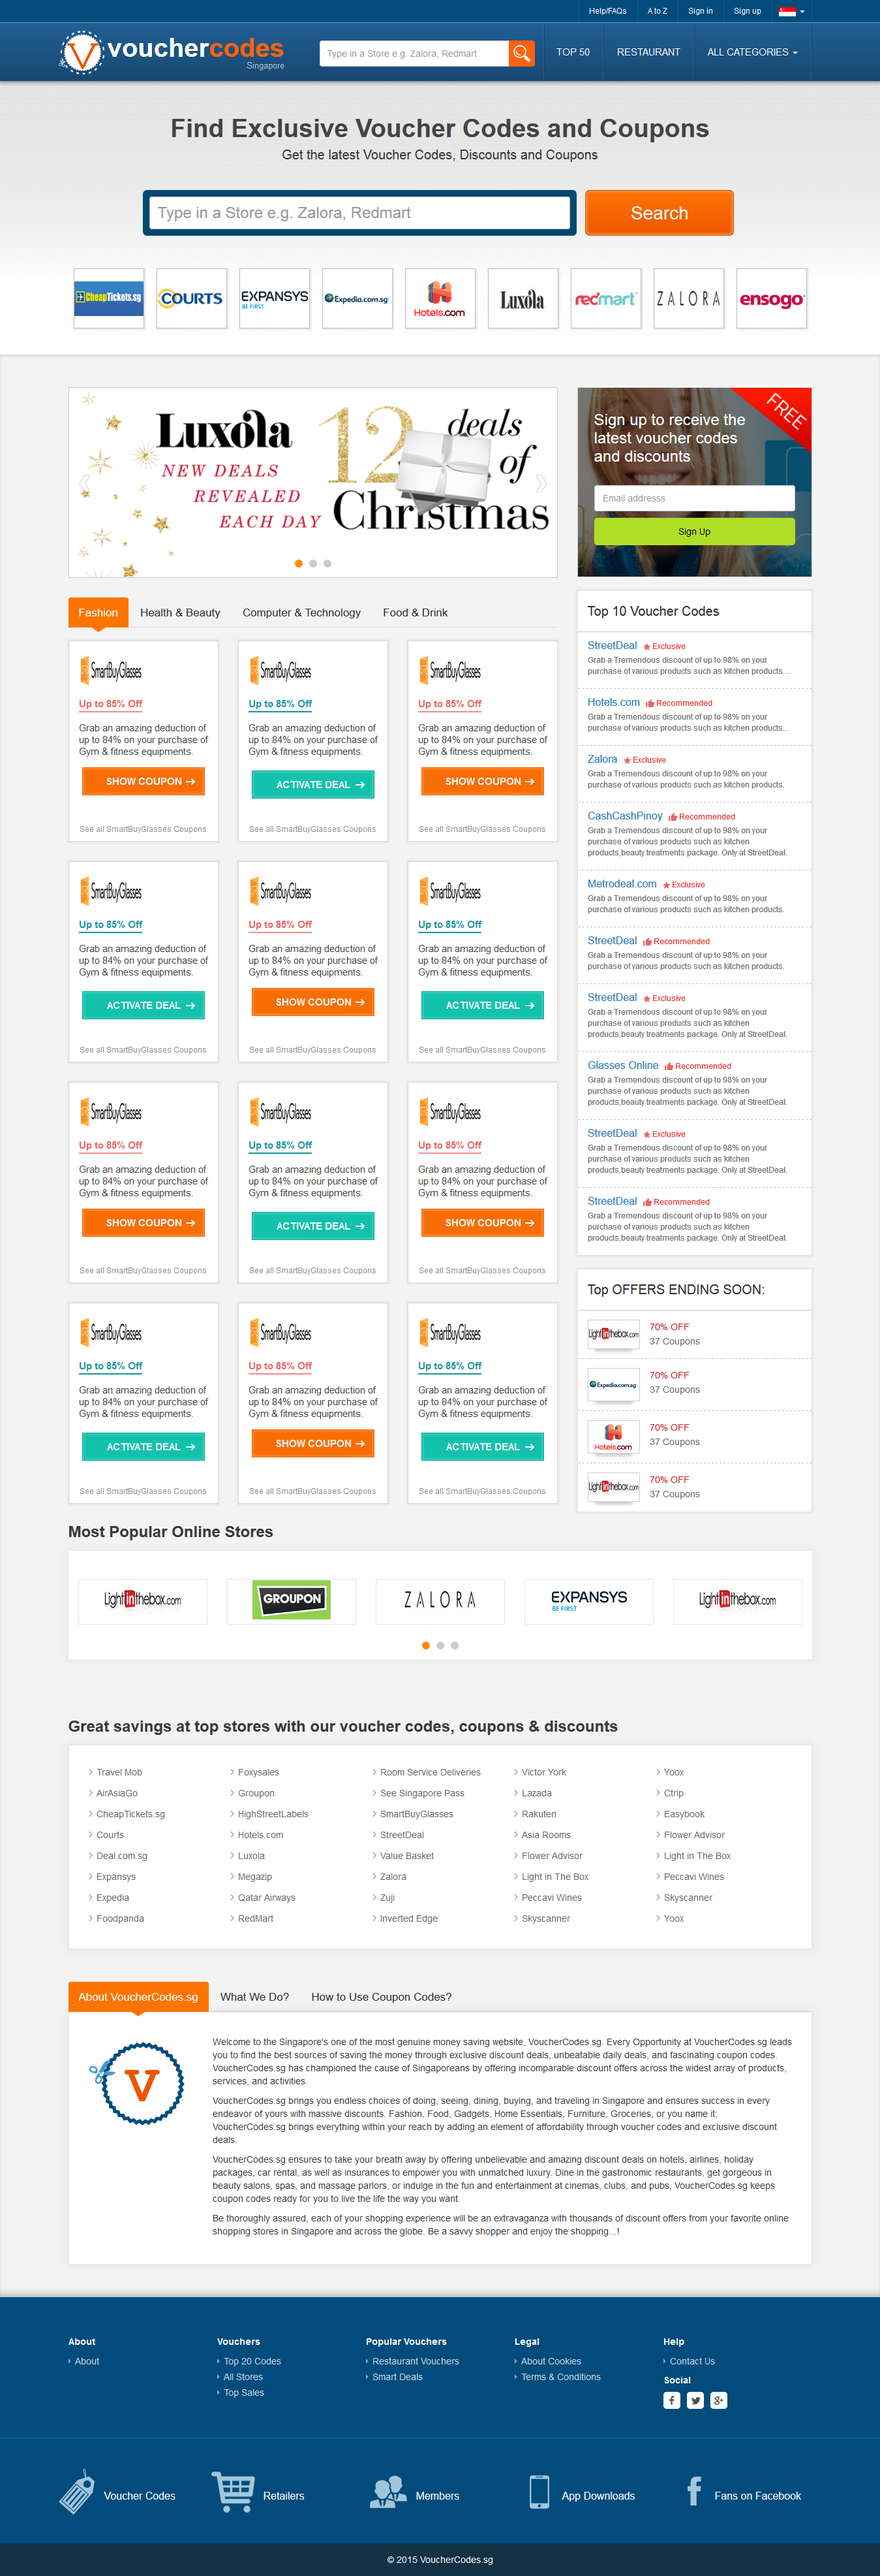
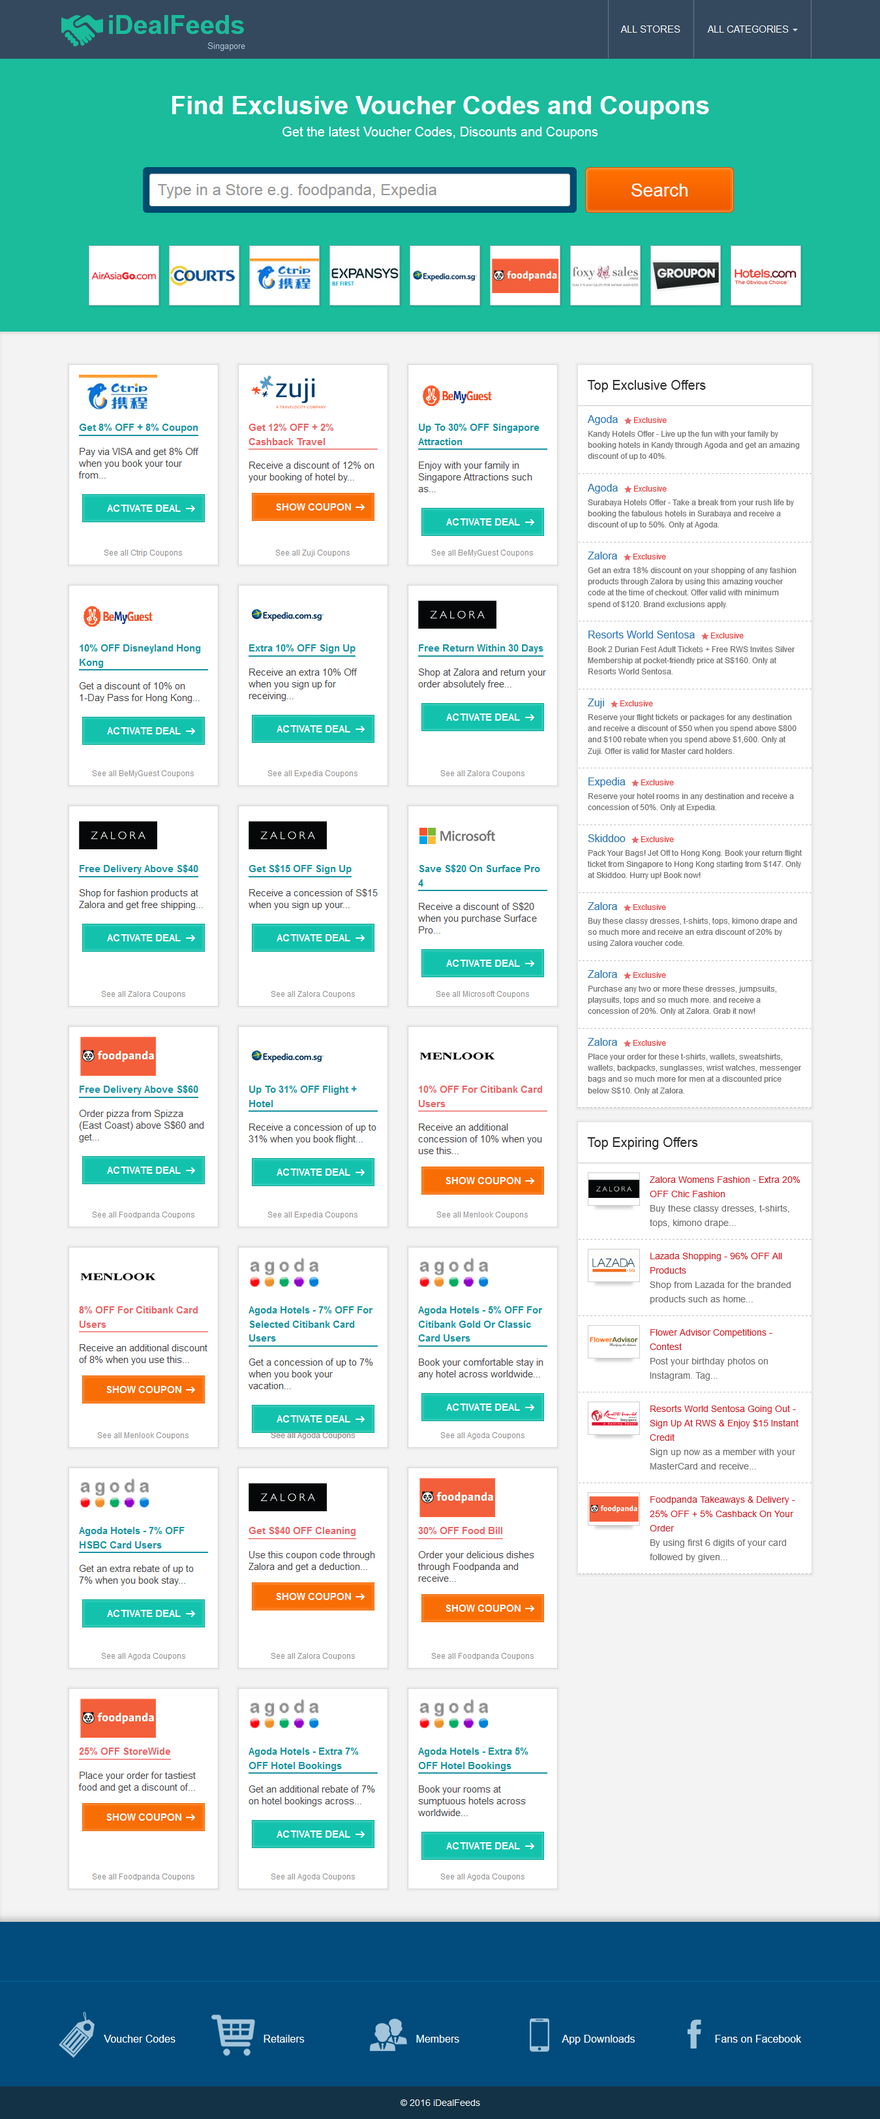
Final UI Changes

diff --git a/iDealFeeds_theme/style.css b/iDealFeeds_theme/style.css
@@ -3595,3 +3595,75 @@ h1.logo{font-size:30px}
 	max-height: 50px;
 	margin: auto;
 }
+
+.tags a {    
+    display: inline-block;
+    height: 24px;
+    line-height: 24px;
+    position: relative;
+    margin: 0 16px 8px 0;
+    padding: 0 10px 0 12px;
+    background:#34495E;    
+    -webkit-border-bottom-right-radius: 3px;    
+    border-bottom-right-radius: 3px;
+    -webkit-border-top-right-radius: 3px;    
+    border-top-right-radius: 3px;
+    -webkit-box-shadow: 0 1px 2px rgba(0,0,0,0.2);
+    box-shadow: 0 1px 2px rgba(0,0,0,0.2);
+    color: #fff;
+    font-size: 12px;
+    font-family: "Lucida Grande","Lucida Sans Unicode",Verdana,sans-serif;
+    text-decoration: none;
+    text-shadow: 0 1px 2px rgba(0,0,0,0.2);
+    font-weight: bold;
+    }
+
+
+   .tags a:before {
+    content: "";
+    position: absolute;
+    top:0;
+    left: -12px;
+    width: 0;
+    height: 0;
+    border-color: transparent #34495E transparent transparent;
+    border-style: solid;
+    border-width: 12px 12px 12px 0;        
+    }
+
+.tags a:after {
+    content: "";
+    position: absolute;
+    top: 10px;
+    left: 1px;
+    float: left;
+    width: 5px;
+    height: 5px;
+    -webkit-border-radius: 50%;
+    border-radius: 50%;
+    background: #fff;
+    -webkit-box-shadow: -1px -1px 2px rgba(0,0,0,0.4);
+    box-shadow: -1px -1px 2px rgba(0,0,0,0.4);
+    }
+
+    .sidebar .top10-coupon ul.tags {
+    padding: 20px;
+    margin: 0;
+    list-style: none;
+}
+
+.sidebar .top10-coupon ul.tags li {
+     border-bottom:0; 
+    padding: 3px 5px;
+    display: inline-block;
+}
+
+.ads-container
+{
+	padding-top: 20px;
+	padding-bottom: 20px;
+}
+
+div.ads-container:empty {
+   display: none;
+}

diff --git a/iDealFeeds/Shortcodes_Admin.php b/iDealFeeds/Shortcodes_Admin.php
@@ -1,6 +1,6 @@
 
 <?php 
-//error_reporting(0);
+error_reporting(0);
 include('Common_Admin.php');
 ?>
 <div class="container row">
@@ -14,44 +14,41 @@ include('Common_Admin.php');
 
   <div class="col-sm-12">
    <div class="col-sm-3">
-     <strong>Home</strong>
+     <strong>Home Page Offers</strong>
      <div class="well">[homepage]</div>
-   </div>   
-</div>
-
-<div class="col-sm-12">    
-  <div class="col-sm-3">
-    <strong>Exclusive Offers</strong>
-    <div class="well">[exclusive_offers]</div>
-  </div> 
-
-
-</div>
-
-<div class="col-sm-12">  
-  <div class="col-sm-3">
+   </div>
+   <div class="col-sm-3">
     <strong>All Merchant</strong>
     <div class="well">[merchant_all] </div>
   </div>
    <div class="col-sm-3">
-    <strong>Premium Merchant</strong>
+    <strong>All Premium Merchants</strong>
     <div class="well">[premium_merchant] </div>
-  </div>
-   <div class="col-sm-3">
-    <strong>Home Premium Merchant</strong>
-    <div class="well">[home_premium_merchant] </div>
-  </div>
-  <div class="col-sm-3">
-    <strong>Top Exclusive Offers</strong>
-    <div class="well">[top_exclusive_offers] </div>
-  </div>
+  </div>  
+    <div class="col-sm-3">
+    <strong>Exclusive Offers</strong>
+    <div class="well">[exclusive_offers]</div>
+  </div>    
 </div>
 
 <div class="col-sm-12">  
   <div class="col-sm-3">
-    <strong>Top Expiring Offers</strong>
+    <strong>Sidebar Top Expiring Offers</strong>
     <div class="well">[top_expiring_offers] </div>
+  </div> 
+  <div class="col-sm-3">
+    <strong>Sidebar Top Exclusive Offers</strong>
+    <div class="well">[top_exclusive_offers] </div>
   </div>  
+   <div class="col-sm-3">
+    <strong>Sidebar Top Categories</strong>
+    <div class="well">[top_categories] </div>
+  </div> 
+  
+</div>
+
+<div class="col-sm-12">  
+  
 </div>
 
 

diff --git a/iDealFeeds/Premium_Merchants.php b/iDealFeeds/Premium_Merchants.php
@@ -1,9 +1,15 @@
-<?php
- include('Config.php');
+<?php //error_reporting(0); ?>
+<div class="home-merchant clearfix">
+	<ul>
+		<?php
+		try
+		{
+			include('Config.php');
+			include('Helper.php');
 
-$apikey = get_option('idealfeeds_apikey', $apikey);
+			$apikey = get_option('idealfeeds_apikey', $apikey);
 
-$ch = curl_init();
+			$ch = curl_init();
 $timeout = 0; // set to zero for no timeout
 curl_setopt ($ch, CURLOPT_URL, "$serviceUrl$apikey/GetMerchants/xml?Premium=true");
 curl_setopt ($ch, CURLOPT_RETURNTRANSFER, 1);
@@ -12,13 +18,25 @@ $xml_raw  = curl_exec($ch);
 $xml = simplexml_load_string($xml_raw);
 curl_close($ch);
 
-
+echo "<ul style='padding:15px;'>";
 foreach ($xml->Merchants->Merchant as $item) {
 
 	$MerchantLogoURL= $item->MerchantLogoURL;
 	$MerchantName =$item->MerchantName;
-    echo '<img src="'.$MerchantLogoURL.'" title="'.$MerchantName.'"/>';
+	echo '<li class="hvr-float-shadow"><a href="'.esc_url(home_url( "/" )).'stores/'.EncodeTextForURL($MerchantName).'"><img class="img-responsive" src="'.$MerchantLogoURL.'" alt="'.$MerchantName.'" title="'.$MerchantName.'"/></a></li>';
+ }
+echo "</ul>"; 
 }
-
+catch(Exception $e)
+{
+	echo 'No data is available.';
+}
 ?>
+</ul>
+</div>	
 
+
+
+			
+			
+			 

diff --git a/iDealFeeds/TopCategories.php b/iDealFeeds/TopCategories.php
@@ -1,0 +1,35 @@
+  <div class="top10-coupon">   
+
+  <?php
+  try
+  {
+    include('Config.php');
+    include('Helper.php');
+
+    $apikey = get_option('idealfeeds_apikey', $apikey);
+
+    $ch = curl_init();
+    $timeout = 0; // set to zero for no timeout
+    curl_setopt ($ch, CURLOPT_URL, "$serviceUrl$apikey/GetCategories/xml?PageNo=1&PageSize=20&Top=true");
+    curl_setopt ($ch, CURLOPT_RETURNTRANSFER, 1);
+    curl_setopt ($ch, CURLOPT_CONNECTTIMEOUT, $timeout);
+    $xml_raw  = curl_exec($ch);
+    $xml = simplexml_load_string($xml_raw);
+    curl_close($ch);
+    //print_r($xml);
+
+      echo "<ul class='tags'>";
+      foreach ($xml->Categories->Category as $item) {
+        $CategoryName= $item->CategoryName;
+        $OfferCategoryID = $item->OfferCategoryID;  
+        echo '<li><a href="'.esc_url(home_url( '/' )).'category/'.EncodeTextForURL(trim($CategoryName)).'">'.$CategoryName.'</a></li>';
+      }
+       echo "</ul>";
+    }
+    catch(Exception $e)
+    {
+      echo 'No data is available.';
+    }
+    ?>
+
+</div>

diff --git a/iDealFeeds_theme/index.php b/iDealFeeds_theme/index.php
@@ -38,8 +38,11 @@ if(is_page('home'))
 <?php          
 }
 ?>	
-
-
+<div class="container">
+<?php if ( is_active_sidebar( 'header-sec' ) ) : ?>      
+         <?php dynamic_sidebar('header-sec'); ?>      
+<?php endif; ?>  
+</div>
 
 <div class="home-content-container">
   <div class="container clearfix">
@@ -66,10 +69,15 @@ if(is_page('home'))
         <div class="">
           <?php get_sidebar(); ?>              
         </div>			 
-      </div>        
+      </div> 
+         
     </div>
   </div>
 </div>
-
+ <div class="container">
+      <?php if ( is_active_sidebar( 'footer-sec' ) ) : ?>      
+         <?php dynamic_sidebar('footer-sec'); ?>      
+      <?php endif; ?>   
+      </div> 
 </div>
 <?php get_footer(); ?>

diff --git a/iDealFeeds_theme/functions.php b/iDealFeeds_theme/functions.php
@@ -133,6 +133,26 @@ register_sidebar( array(
  ) );
 
 register_sidebar( array(
+ 'name' => 'Header Ads',
+ 'id' => 'header-sec',
+ 'description' => 'Add Header Ads',
+ 'before_widget' => '<div class="ads-container">',
+ 'after_widget'  => '</div>',
+ 'before_title'  => '<h3>',
+ 'after_title'   => '</h3>' ,
+ ) );
+
+register_sidebar( array(
+ 'name' => 'Footer Ads',
+ 'id' => 'footer-sec',
+ 'description' => 'Add footer Ads',
+ 'before_widget' => '<div class="ads-container">',
+ 'after_widget'  => '</div>',
+ 'before_title'  => '<h3>',
+ 'after_title'   => '</h3>' ,
+ ) );
+
+register_sidebar( array(
  'name' => 'Footer Menu 1',
  'id' => 'footer-menu-1',
  'description' => 'Add custom menu widgets footer menu',

diff --git a/iDealFeeds/iDealFeedInit.php b/iDealFeeds/iDealFeedInit.php
@@ -142,7 +142,12 @@
         return  $rType;       
      }
      add_shortcode('offers', 'iDealFeeds_offers_shortcode');
-
+    
+     function iDealFeeds_top_categories_shortcode(){
+        $rType = requireToVar('TopCategories.php');      
+        return  $rType;       
+     }
+     add_shortcode('top_categories', 'iDealFeeds_top_categories_shortcode');
 
     //**********End short Codes Definition***********//
       
